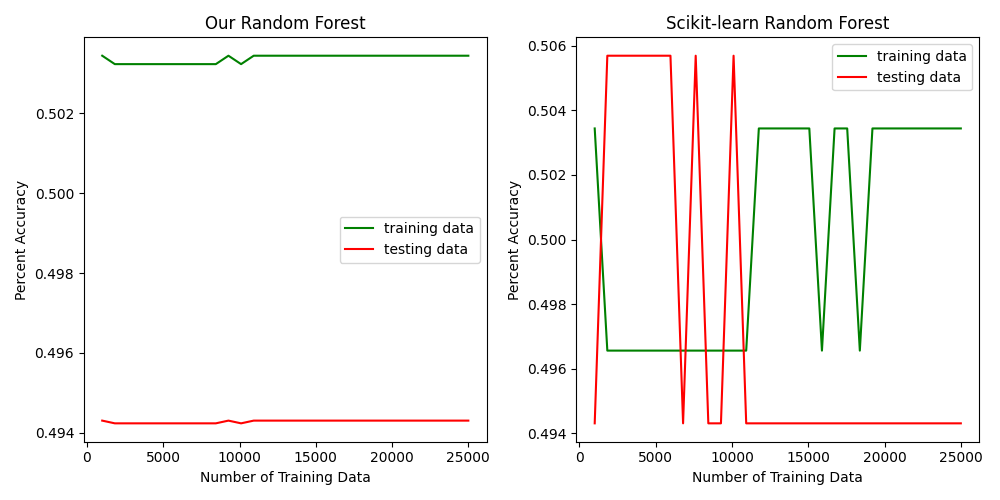
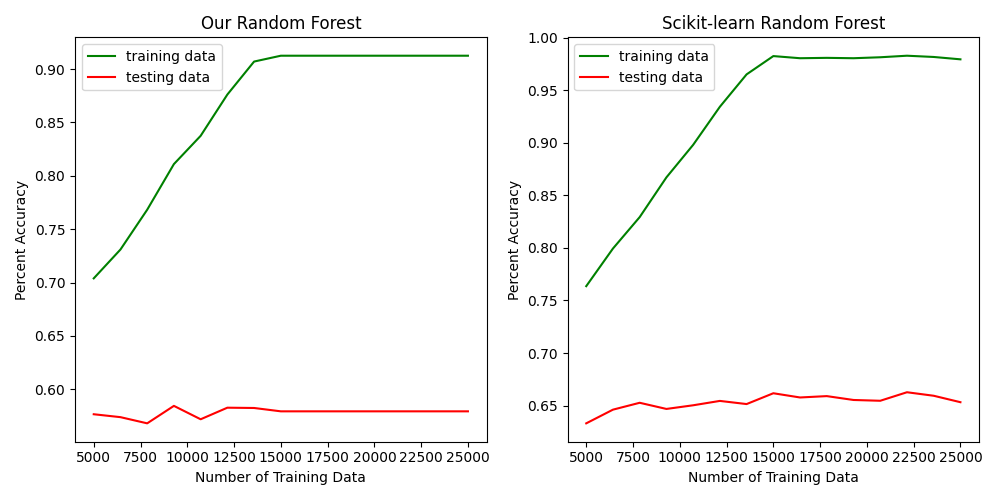
added max depth to algorithm

diff --git a/RandomForest.py b/RandomForest.py
@@ -5,11 +5,15 @@ from sklearn.ensemble import RandomForestClassifier
 import sys
 import matplotlib.pyplot as plt
 import random
+import math
 from sklearn.metrics import precision_score, recall_score, f1_score, accuracy_score
 
-def random_forest(x_train, y_train, x_test, y_test, fv_skip_top, fv_length, tree_number, tree_fv_length):
+def random_forest(x_train, y_train, x_test, y_test, fv_skip_top, fv_length, tree_number, tree_fv_length, max_depth):
+
     #create encoded feature vector (index of words)
     encoded_feature_vector = imdb.getFeatureVector(skip_top=fv_skip_top, num_words=fv_length)
+
+
 
     #each tree has a feature vector smaller than the original
     #choose each attribute at random
@@ -17,6 +21,7 @@ def random_forest(x_train, y_train, x_test, y_test, fv_skip_top, fv_length, tree
     for i in range(tree_number):
         encoded_tree_feature_vectors.append(random.sample(encoded_feature_vector, tree_fv_length))
         encoded_tree_feature_vectors[i].sort()
+
 
 
     #create 0-1 feature vector for each training example
@@ -32,6 +37,7 @@ def random_forest(x_train, y_train, x_test, y_test, fv_skip_top, fv_length, tree
     train_examples = np.stack(train_examples)
 
 
+
     #create 0-1 feature vector for each test example
     test_examples = np.zeros_like(x_test)
     for i in range(len(x_test)):
@@ -44,56 +50,52 @@ def random_forest(x_train, y_train, x_test, y_test, fv_skip_top, fv_length, tree
     test_examples = np.stack(test_examples)
 
 
+
     #create ID3 forest for the ensamble
     forest = []
     for i in range(tree_number):
-        id3_tree = ID3(features=encoded_tree_feature_vectors[i])
+        id3_tree = ID3(features=encoded_tree_feature_vectors[i], max_depth=max_depth)
         id3_tree.fit(train_examples, np.array(y_train))
         forest.append(id3_tree)
+
 
 
     #collect test example predictions from the forest
     all_tree_predictions = np.zeros((tree_number, len(y_test)))
     for i in range(tree_number):
-        all_tree_predictions[i] = forest[i].predict(test_examples)
+        all_tree_predictions[i,:] = forest[i].predict(test_examples)
 
+
+        
     #organize each tree's prediction to be calculated
-    tree_votes = np.zeros(len(y_test))
-    for i in range(len(y_test)):
-        for j in range(len(forest)):
-            tree_votes[i] += all_tree_predictions[j][i]
+    tree_votes = np.sum(all_tree_predictions, axis=0)
 
 
 
     #implement majority vote for each example
     majority_outcome = np.zeros(len(test_examples))
-    for i in range(len(all_tree_predictions)):
-        #majority predicted positive outcome (1)
-        if(tree_votes[i] / (len(forest)* 1.0) > 0.5):
-            majority_outcome[i] = 1
+    #majority predicted positive outcome (1) when majority vote is greater than 0.5
+    #majority predicted negative outcome (0) when majority vote is lesser or equal than 0.5
+    majority_outcome = np.where(tree_votes / len(forest) > 0.5, 1, 0)
 
-        #majority predicted negative outcome (0)
-        elif(tree_votes[i] / (len(forest)* 1.0) < 0.5):
-            majority_outcome[i] = 0
 
-        #majority does not exist, both outcomes equally predicted -> choose randomly 0 or 1
-        else:
-            majority_outcome[i] = random.randint(0,1)
 
-    sl_random_forest = RandomForestClassifier(n_estimators=tree_number)
+    #implement sklearn's random forest for comparison
+    sl_random_forest = RandomForestClassifier(n_estimators=tree_number, max_features=max_depth)
     sl_random_forest.fit(train_examples,np.array(y_train))
     sl_random_forest_pred = sl_random_forest.predict(test_examples)
-    
+
     return y_test, majority_outcome, sl_random_forest_pred
 
 #Ορισμός υπερπαραμέτρων
 sys.setrecursionlimit(3000)
 
-train_step = np.linspace(1000,25000,30,dtype=int)
-tree_number = 5
-fv_skip_top = 150
-fv_length = 100
-tree_fv_length = 25
+train_step = np.linspace(5000,25000,15,dtype=int)
+tree_number = 7
+fv_skip_top = 80
+fv_length = 200
+tree_fv_length = 75
+id3_max_depth = math.ceil(math.sqrt(tree_fv_length))#this value must be lesser or equal to tree_fv_length
 
 
 #obtain imdb data 
@@ -116,77 +118,63 @@ for step in train_step:
     y_train = y_train_raw[:step]
 
     #training data tests
-    y_test_train, y_pred_train_our, y_pred_train_scilearn = random_forest(x_train=x_train, y_train=y_train, x_test=x_train_raw, y_test=y_train_raw, fv_skip_top=fv_skip_top, fv_length=fv_length,tree_number=tree_number,tree_fv_length=tree_fv_length)
+    y_test_train, y_pred_train_our, y_pred_train_scilearn = random_forest(x_train=x_train, y_train=y_train, x_test=x_train_raw, y_test=y_train_raw, fv_skip_top=fv_skip_top, fv_length=fv_length,tree_number=tree_number,tree_fv_length=tree_fv_length, max_depth = id3_max_depth)
     
+    print("Data for training tests was gathered at step -> " + str(step))
     #testing data tests
-    y_test_test, y_pred_test_our, y_pred_test_scilearn = random_forest(x_train=x_train, y_train=y_train, x_test=x_test_raw, y_test=y_test_raw, fv_skip_top=fv_skip_top, fv_length=fv_length,tree_number=tree_number,tree_fv_length=tree_fv_length)
-    
+    y_test_test, y_pred_test_our, y_pred_test_scilearn = random_forest(x_train=x_train, y_train=y_train, x_test=x_test_raw, y_test=y_test_raw, fv_skip_top=fv_skip_top, fv_length=fv_length,tree_number=tree_number,tree_fv_length=tree_fv_length, max_depth = id3_max_depth)
+    print("Data for testing tests was gathered at step -> " + str(step))
+
     for metric, func in metrics.items():
         #calculate metrics for our implementation
-        if metric == 'precision':
+        if metric == 'precision' or metric == 'recall':
             our_results[metric]['train'].append(func(y_true=y_test_train, y_pred=y_pred_train_our, zero_division=1))
             our_results[metric]['test'].append(func(y_true=y_test_test, y_pred=y_pred_test_our, zero_division=1))
         else:
             our_results[metric]['train'].append(func(y_true=y_test_train, y_pred=y_pred_train_our))
             our_results[metric]['test'].append(func(y_true=y_test_test, y_pred=y_pred_test_our))
 
+
         #calculate metrics for scilearn implementation
-        if metric == 'precision':
+        if metric == 'precision' or metric == 'recall':
             scilearn_results[metric]['train'].append(func(y_true=y_test_train, y_pred=y_pred_train_scilearn, zero_division=1))
             scilearn_results[metric]['test'].append(func(y_true=y_test_test, y_pred=y_pred_test_scilearn, zero_division=1))
         else:
             scilearn_results[metric]['train'].append(func(y_true=y_test_train, y_pred=y_pred_train_scilearn))
             scilearn_results[metric]['test'].append(func(y_true=y_test_test, y_pred=y_pred_test_scilearn))
 
-# Plot results
+print("Data collection for all training steps has been completed!")
+print("\n\n")
+print("[Our Random Forest] Metric " + metric + " for training data is calculated at: " +  str(our_results[metric]['train']))
+print("[Our Random Forest] Metric " + metric + " for testing data is calculated at: " +  str(our_results[metric]['test']))
+print("\n\n")
+print("[Scikit Learn] Metric " + metric + " for training data is calculated at: " +  str(scilearn_results[metric]['train']))
+print("[Scikit Learn] Metric " + metric + " for testing data is calculated at: " +  str(scilearn_results[metric]['test']))
+print("\n\n")
+
+
+#plot the results
 for metric in metrics.keys():
-#plot the presicion/recall plots differently than f1 and accuracy
-    if metric == 'recall':
-        continue
- 
-    
-    if metric == 'precision':
-        fig, axs = plt.subplots(1, 2, figsize=(10, 5))
-        # Subplot for our implementation
-        axs[0].plot(our_results['recall']['train'], our_results['precision']['train'], color='green', label='training data')
-        axs[0].plot(our_results['recall']['test'], our_results['precision']['test'], color='red', label='testing data')
-        axs[0].set_title('Our Random Forest')
-        axs[0].set_xlabel('Recall')
-        axs[0].set_ylabel('Precision')
-        axs[0].legend()
+#plot the accuracy, precision, recall and f1 curves
+    fig, axs = plt.subplots(1, 2, figsize=(10, 5))
+    # Subplot for our implementation
+    axs[0].plot(train_step, our_results[metric]['train'], color='green', label='training data')
+    axs[0].plot(train_step, our_results[metric]['test'], color='red', label='testing data')
+    axs[0].set_title('Our Random Forest')
+    axs[0].set_xlabel('Number of Training Data')
+    axs[0].set_ylabel(f'Percent {metric.capitalize()}')
+    axs[0].legend()
 
-        # Subplot for scikit-learn implementation
-        axs[1].plot(scilearn_results['recall']['train'], scilearn_results['precision']['train'], color='green', label='training data')
-        axs[1].plot(scilearn_results['recall']['test'], scilearn_results['precision']['test'], color='red', label='testing data')
-        axs[1].set_title('Scikit-learn Random Forest')
-        axs[1].set_xlabel('Recall')
-        axs[1].set_ylabel('Precision')
-        axs[1].legend()
-        
-        # Display the figure with the subplots
-        plt.tight_layout()
-        plt.show()
-    #for accuracy and f1 measure
-    elif metric != 'precision':
-        fig, axs = plt.subplots(1, 2, figsize=(10, 5))
-        # Subplot for our implementation
-        axs[0].plot(train_step, our_results[metric]['train'], color='green', label='training data')
-        axs[0].plot(train_step, our_results[metric]['test'], color='red', label='testing data')
-        axs[0].set_title('Our Random Forest')
-        axs[0].set_xlabel('Number of Training Data')
-        axs[0].set_ylabel(f'Percent {metric.capitalize()}')
-        axs[0].legend()
+    # Subplot for scikit-learn implementation
+    axs[1].plot(train_step, scilearn_results[metric]['train'], color='green', label='training data')
+    axs[1].plot(train_step, scilearn_results[metric]['test'], color='red', label='testing data')
+    axs[1].set_title('Scikit-learn Random Forest')
+    axs[1].set_xlabel('Number of Training Data')
+    axs[1].set_ylabel(f'Percent {metric.capitalize()}')
+    axs[1].legend()
 
-        # Subplot for scikit-learn implementation
-        axs[1].plot(train_step, scilearn_results[metric]['train'], color='green', label='training data')
-        axs[1].plot(train_step, scilearn_results[metric]['test'], color='red', label='testing data')
-        axs[1].set_title('Scikit-learn Random Forest')
-        axs[1].set_xlabel('Number of Training Data')
-        axs[1].set_ylabel(f'Percent {metric.capitalize()}')
-        axs[1].legend()
-
-        # Display the figure with the subplots
-        plt.tight_layout()
-        plt.show()
+    # Display the figure with the subplots
+    plt.tight_layout()
+    plt.show()
 
 

diff --git a/id3.py b/id3.py
@@ -10,22 +10,23 @@ class Node:
         self.category = category
 
 class ID3:
-    def __init__(self, features):
+    def __init__(self, features, max_depth):
         self.tree = None
         self.features = features
+        self.max_depth = max_depth
     
     def fit(self, x, y):
         '''
         creates the tree
         '''
         most_common = mode(y.flatten())
-        self.tree = self.create_tree(x, y, features=np.arange(len(self.features)), category=most_common)
+        self.tree = self.create_tree(x, y, features=np.arange(len(self.features)), category=most_common, depth=0)
         return self.tree
     
-    def create_tree(self, x_train, y_train, features, category):
+    def create_tree(self, x_train, y_train, features, category, depth):
         
         # check empty data
-        if len(x_train) == 0:
+        if len(x_train) == 0 or depth == self.max_depth:
             return Node(checking_feature=None, is_leaf=True, category=category)  # decision node
         
         # check all examples belonging in one category
@@ -57,12 +58,13 @@ class ID3:
         new_features_indices = np.delete(features.flatten(), max_ig_idx)  # remove current feature
 
         root.left_child = self.create_tree(x_train=x_train_1, y_train=y_train_1, features=new_features_indices, 
-                                           category=m)  # go left for X = 1
+                                           category=m, depth=depth+1)  # go left for X = 1
         
         root.right_child = self.create_tree(x_train=x_train_0, y_train=y_train_0, features=new_features_indices,
-                                            category=m)  # go right for X = 0
+                                            category=m, depth=depth+1)  # go right for X = 0
         
         return root
+
 
     @staticmethod
     def calculate_ig(classes_vector, feature):
